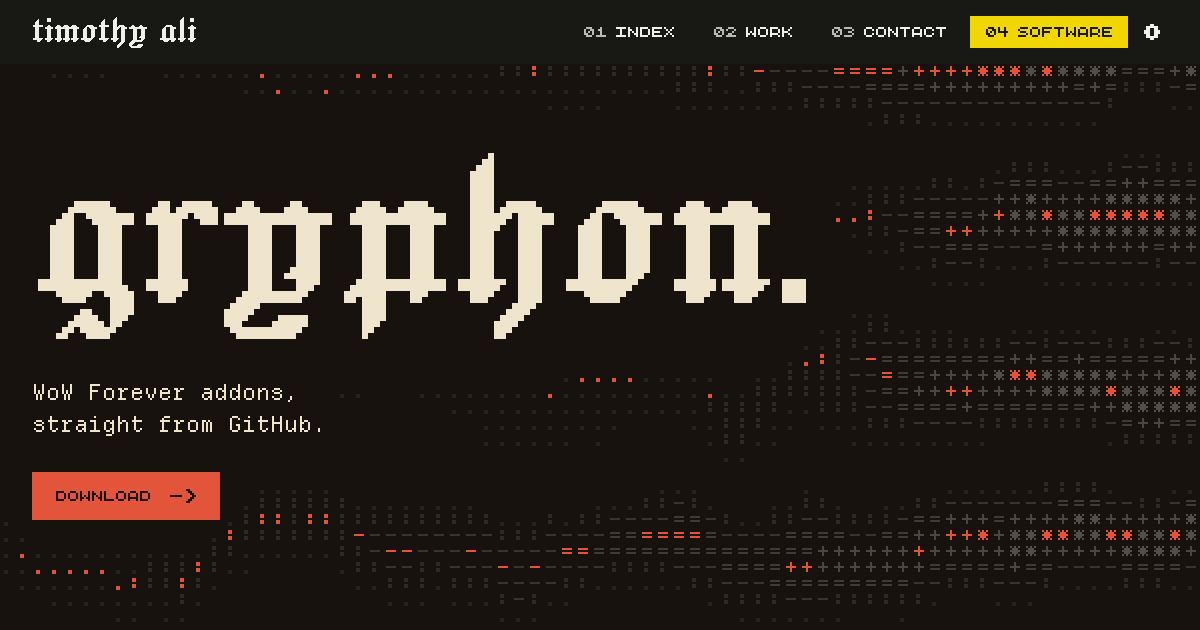
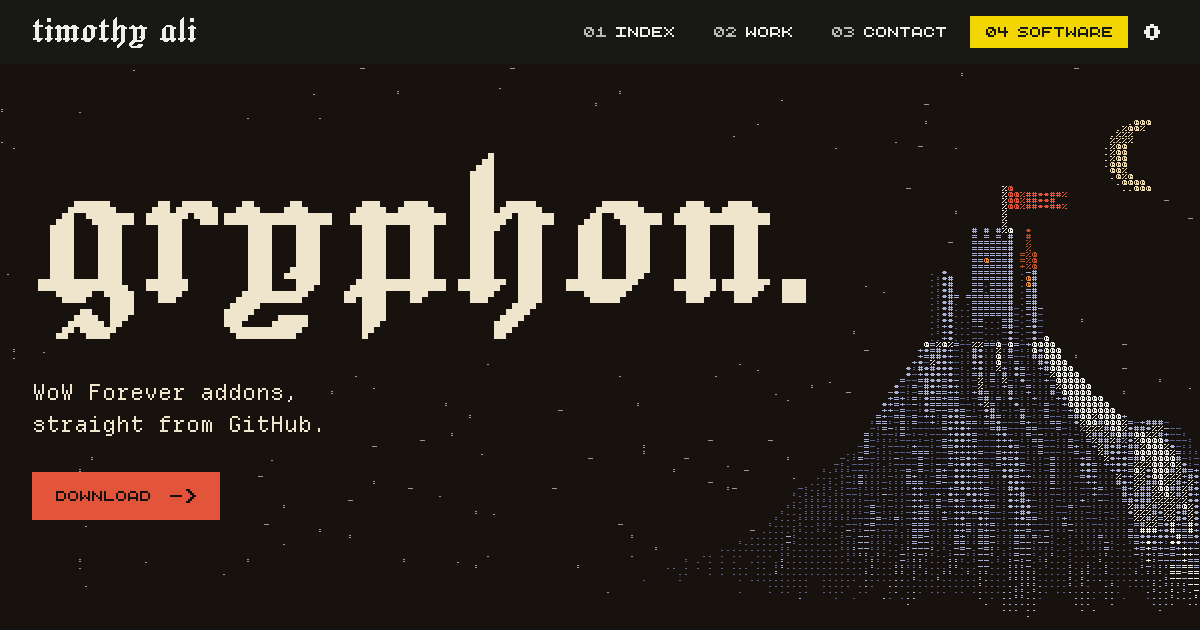
Share images in the new scenes; Toolbox's prism keeps off its title (0258)
The Software, Toolbox and Gryphon share images show their pages' scenes:
the planet and its four moons, the prism, and the castle on its peak.
Software's image has its own layout of the moons, with the planet low on
the right past the name. On the Toolbox page the prism ran into the end
of the title between about 700 and 1400px wide; it now keeps 34px off it
and gets smaller where there isn't room.

Changed region(s): [[0.4008, 0.181, 1.0, 0.9349], [0.7092, 0.0905, 1.0, 0.1508], [0.3083, 0.8444, 0.37, 0.8746]]

diff --git a/src/lib/pageScenes.ts b/src/lib/pageScenes.ts
@@ -33,14 +33,20 @@ const MOONS = [
   { c: MAT.vermilion, r: 38, off: 120, b: 0.12, k: 0.22, at: -0.15 },
   { c: MAT.snow, r: 27, off: 148, b: 0.09, k: 0.05, at: Math.PI + 0.2 },
 ];
-const moons: Scene = (X, Y, A, t, seed, x, y, px) => {
-  const W = A / px, phone = W < 700;
-  const mid = phone ? W / 2 : (W + 152) / 2, half = phone ? W / 2 - 16 : Math.min(440, mid - 184);
-  const cx = (phone ? mid : mid - 40) * px, cy = phone ? 0.72 : 0.68, R = (phone ? half * 0.85 : half + 60) * px;
+// where the giant sits, in span units: its centre and radius, the moons' scale, and the furthest right an orbit may reach
+type Orbits = { cx: number; cy: number; R: number; rs: number; right: number };
+const desk = (W: number, px: number): Orbits => {
+  const phone = W < 700, mid = phone ? W / 2 : (W + 152) / 2, half = phone ? W / 2 - 16 : Math.min(440, mid - 184);
+  return { cx: (phone ? mid : mid - 40) * px, cy: phone ? 0.72 : 0.68, R: (phone ? half * 0.85 : half + 60) * px, rs: phone ? 0.7 : 1, right: (W - 34) * px };
+};
+// the share image (0258): the giant low on the right, past the name, and its moons' orbits under the name
+const share = (W: number, px: number): Orbits => ({ cx: (W - 330) * px, cy: 0.78, R: 160 * px, rs: 0.9, right: (W - 34) * px });
+const orbits = (place: (W: number, px: number) => Orbits): Scene => (X, Y, A, t, seed, x, y, px) => {
+  const { cx, cy, R, rs, right } = place(A / px, px);
   let live = false, orbit = 0;
   const front: Cell[] = [], back: Cell[] = [];
   for (let i = 0; i < MOONS.length; i++) {
-    const rm = MOONS[i].r * px * (phone ? 0.7 : 1), m = MOONS[i], a = Math.max(R + rm + 20 * px, Math.min(R + m.off * px, (W - 34) * px - cx));
+    const rm = MOONS[i].r * px * rs, m = MOONS[i], a = Math.max(R + rm + 20 * px, Math.min(R + m.off * px, right - cx));
     // inner moons go round faster (Kepler's third law), the first in about four minutes
     const ph = m.at + t * 0.0045 * Math.pow((R + 64 * px) / a, 1.5);
     const mx = cx + a * Math.cos(ph), my = cy + m.b * Math.sin(ph) - m.k * Math.cos(ph);
@@ -82,9 +88,12 @@ const SPECTRUM = [MAT.vermilion, MAT.orange, MAT.yellow, MAT.jade, MAT.rock, MAT
 const R3 = Math.sqrt(3);
 const IN = (() => { const l = Math.hypot(0.42, 1); return [0.42 / l, 1 / l]; })();
 const prism: Scene = (X, Y, A, t, seed, x, y, px) => {
-  const wide = A >= 1.9;
-  const L = wide ? Math.min(0.46, 0.2 * A) : Math.min(0.32, Math.max(0.24, 0.2 * A));
-  const cx = wide ? A - 2 * L : A - 1.05 * L, cy = wide ? 0.47 : 0.3;
+  const W = A / px, wide = A >= 1.9;
+  // clear of the title, which ends at 734px from 901 up and 500px down to 701 (a phone's sits beside
+  // it as it is): the glass keeps 34px off it and gets smaller before it would come closer (0258)
+  const room = W > 700 ? A - ((W > 900 ? 734 : 500) + 34) * px : Infinity;
+  const L = Math.min(wide ? Math.min(0.46, 0.2 * A) : Math.min(0.32, Math.max(0.24, 0.2 * A)), room / (wide ? 2.45 : 1.55));
+  const cx = wide ? Math.max(A - 2 * L, A - room + L / 2) : A - 1.05 * L, cy = wide ? 0.47 : 0.3;
   const ax = cx, ay = cy - L / R3, bx = cx - L / 2, by = cy + L / (2 * R3), qx = cx + L / 2; // apex, left foot, right foot
   const ex = ax + 0.42 * (bx - ax), ey = ay + 0.42 * (by - ay); // where the light goes in, on the left face
   const ox = ax + 0.55 * (qx - ax), oy = ay + 0.55 * (by - ay); // and where it comes out, on the right
@@ -229,7 +238,7 @@ const keepScene: Scene = (X, Y, A, t, seed, x, y, px) => {
   return sky(x, y, seed);
 };
 
-const PAGES: Record<string, Scene> = { software: moons, toolbox: prism, gryphon: keepScene };
+const PAGES: Record<string, Scene> = { software: orbits(desk), 'software-share': orbits(share), toolbox: prism, gryphon: keepScene };
 
 /** one cell of a page's scene; `foot` is the band's foot in the span's heights, where the scene fades
  * out over the last fifth into the page, and `H` the span's height in CSS pixels */

diff --git a/src/routes/og/[id]/+page.svelte b/src/routes/og/[id]/+page.svelte
@@ -71,22 +71,22 @@
       <BuildingHead level="h1" />
     </Band>
   {:else if data.id === 'toolbox'}
-    <!-- The Toolbox hero at share size: the same field, the name, the lead, the actions. -->
-    <Band class="og-toolbox" mode="bands" seed={7} density={0.7} flip shade hug pad={0} feather={12} depth={0.85} clearFeather={3} avoid=".og-toolbox h1 .decode > [aria-hidden]:not(.cursor)" clear=".og-toolbox .lead, .og-actions > *">
+    <!-- The Toolbox hero at share size: the same scene (the prism, 0255), the name, the lead, the actions. -->
+    <Band class="og-toolbox" mode="scene" page="toolbox" sceneSpan="box" seed={7} avoid=".og-toolbox h1 .decode > [aria-hidden]:not(.cursor)" clear=".og-toolbox .lead, .og-actions > *">
       <h1 class="blackletter display-xl" data-ink="toolbox."><Decode text="toolbox." /></h1>
       <p class="lead">Prepare your files<br />for handoff.</p>
       <div class="og-actions"><Cta href="/toolbox/#tools">Explore the tools <Arrow /></Cta></div>
     </Band>
   {:else if data.id === 'gryphon'}
-    <!-- Gryphon's hero at share size (PX-137): the Toolbox composition with Gryphon's field, name, lead and action. -->
-    <Band class="og-toolbox og-gryphon illuminated" mode="bands" seed={11} density={0.7} flip shade hug pad={0} feather={12} depth={0.85} clearFeather={3} avoid=".og-gryphon h1 .decode > [aria-hidden]:not(.cursor)" clear=".og-gryphon .lead, .og-actions > *">
+    <!-- Gryphon's hero at share size (PX-137): the Toolbox composition with Gryphon's scene (the castle, 0257), name, lead and action. -->
+    <Band class="og-toolbox og-gryphon illuminated" mode="scene" page="gryphon" sceneSpan="box" seed={11} avoid=".og-gryphon h1 .decode > [aria-hidden]:not(.cursor)" clear=".og-gryphon .lead, .og-actions > *">
       <h1 class="blackletter display-xl" data-ink="gryphon."><Decode text="gryphon." /></h1>
       <p class="lead">WoW Forever addons,<br />straight from GitHub.</p>
       <div class="og-actions"><Cta href="/gryphon/#download">Download <Arrow /></Cta></div>
     </Band>
   {:else if data.id === 'software'}
-    <!-- Software's share image (0246): the page's own scene, the desktop's, behind the name and lead. -->
-    <Band class="og-toolbox og-software" mode="scene" shot="hero" sceneSpan="box" mountains="a" seed={10} feather={3} depth={0.6} clearFeather={3} avoid=".og-software h1 .decode > [aria-hidden]:not(.cursor)" clear=".og-software .lead">
+    <!-- Software's share image (0246): the page's own scene, the four moons (0255), laid out for the name and lead (0258). -->
+    <Band class="og-toolbox og-software" mode="scene" page="software-share" sceneSpan="box" seed={10} avoid=".og-software h1 .decode > [aria-hidden]:not(.cursor)" clear=".og-software .lead">
       <h1 class="blackletter display-xl" data-ink="software."><Decode text="software." /></h1>
       <p class="lead">Apps and tools<br />I make and ship.</p>
     </Band>

diff --git a/docs/decision-log.md b/docs/decision-log.md
@@ -3023,3 +3023,10 @@ Seeing it, Timothy asked for “slightly darker”. Five candidates were rendere
 - **Change:** the keep from 0255 is drawn again, shaded like the landing's mountains instead of outlined. A small moonlit castle (keep, round tower, turret with a red spire, lit windows, one vermilion banner) stands on the summit of a big rocky peak with a snowy right flank, a hazed range behind it and a crescent moon above. On a laptop the castle moves right until it's clear of the title; on a phone it sits low at the right edge, beside the buttons.
 - **Assistant's choices (proposed, awaiting his review):** the rock is lit from the moon (up and to the right) through the landing's own luminance-to-glyph mapping, so it prints in the light theme by its shadows like the landing's mountains. The castle keeps 96px off the title, the distance over which the field fades around it. One banner instead of two, and only it moves.
 - **Status:** local, not pushed.
+
+## 0258: the share images wear the new scenes; Toolbox's prism keeps off its title (2026-11-02)
+
+- **Timothy's direction:** "Yes, update them" (the share images for Software, Toolbox and Gryphon, after 0255 and 0257).
+- **Change:** the Software, Toolbox and Gryphon share images now show their pages' scenes: the planet and its four moons, the prism, and the castle on its peak. On the Toolbox page, from 701 to about 1400px wide, the prism and its beam ran into the end of the title. Now the glass keeps 34px off the title and gets smaller where there isn't room. 1440 and wider, and phones, look as before.
+- **Assistant's choices (proposed, awaiting his review):** Software's share image keeps the name and lead, so its scene has a second layout for it (`software-share`): the planet low on the right, past the name, with the moons' orbits under it. The desktop's layout is unchanged. Home, Work and Contact rendered about a hundred pixels differently, a few stray glyphs, so they stay as committed.
+- **Status:** local, not pushed.
